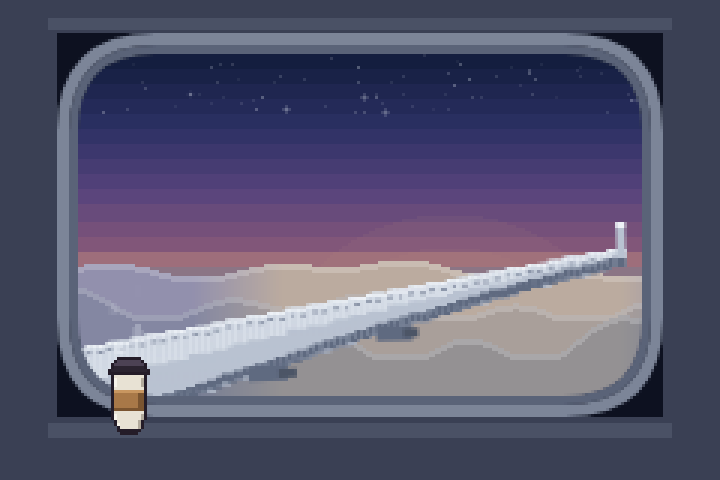
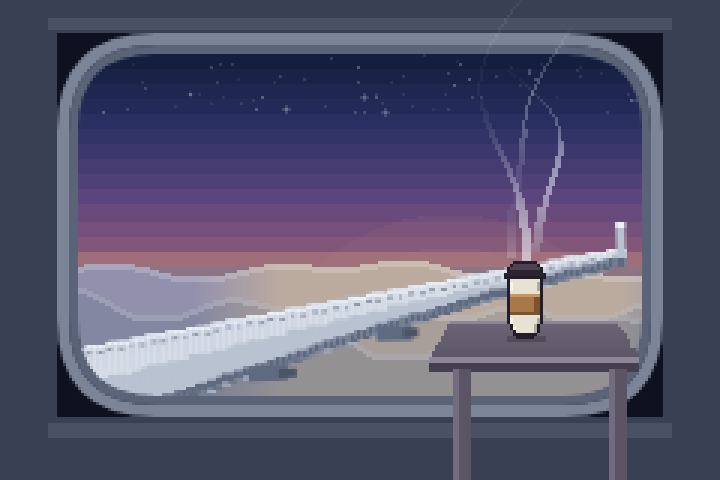
Put the coffee on a tray table in the foreground, per the sketch
- The cups sat in a row on the window ledge at the bottom left. They are now
  one cup on a pulled-down tray table in the lower right, drawn in screen
  space over the window frame because it is inside the cabin with you.
- The tray is drawn row by row so it tapers with perspective, and hangs on
  two arms that run off the bottom of the frame.
- Steam is rebuilt as ribbons rather than dots: each is a chain of pixels
  whose x follows two sines of different rates, both widening as it rises, so
  it wanders up across the whole window instead of oscillating on the spot.
  Dense and two pixels wide at the cup, wispy by the top.
- The attendant is no longer drawn leaning into the frame. She was cramped
  against the window edge and crowding the composition; the dimmed window and
  the dialogue carry her being there, the way every other conversation in the
  game works.

diff --git a/dist/rhubarb.html b/dist/rhubarb.html
@@ -1984,24 +1984,69 @@
 
   // A cup at rest with steam curling off it. Three wisps on different
   // phases, drifting up and sideways and fading as they rise.
-  // x,y is where the cup STANDS — its base — so callers position it on the
-  // ledge rather than guessing at a top-left corner.
-  RB.sillCup = function (x, y, t) {
-    var h = RB.sprites.bigcup.length;
-    RB.drawSprite(RB.sprites.bigcup, x, y - h, RB.cupPal);
-    // Steam scaled to match: taller, wider, slower.
-    for (var i = 0; i < 4; i++) {
-      var k = ((t * 0.34 + i * 0.25) % 1);
-      var sy = y - h - 2 - k * 26;
-      var sx = x + 5 + Math.sin(t * 1.2 + i * 1.9 + k * 3.4) * 4.5;
-      var fade = (1 - k) * (1 - k);
-      RB.ctx.globalAlpha = fade * 0.70;
-      RB.rect(sx, sy, 2, 4, P.white);
-      RB.ctx.globalAlpha = fade * 0.40;
-      RB.rect(sx - 1, sy + 1, 1, 3, P.white);
-      RB.rect(sx + 2, sy + 2, 1, 2, P.white);
-      RB.ctx.globalAlpha = 1;
+  // A tray table pulled down in the foreground with a coffee on it, and the
+  // steam curling up across the whole window. Drawn in screen space, over the
+  // window frame, because it is inside the cabin with you.
+  //
+  // Ribbons rather than dots: each one is a chain of pixels whose x follows a
+  // sine that widens as it rises, which is what makes steam read as steam.
+  function steamRibbon(baseX, baseY, t, phase, height) {
+    for (var i = 0; i < height; i++) {
+      var f = i / height;
+      // Two sines of different rates, both widening as the ribbon rises, so
+      // it wanders instead of oscillating on a fixed period.
+      var swing = 2.0 + f * 15;
+      var x = baseX
+            + Math.sin(f * 3.1 + t * 0.75 + phase) * swing
+            + Math.sin(f * 6.7 + t * 0.42 + phase * 1.7) * (swing * 0.35);
+      var a = (1 - f * f) * 0.62 * (0.55 + 0.45 * Math.sin(t * 1.5 + phase + f * 5.0));
+      if (a <= 0.02) continue;
+      RB.ctx.globalAlpha = a;
+      RB.rect(Math.round(x), baseY - i, 1, 1, P.white);
+      // Thicker low down where the steam is dense, wispy at the top.
+      if (f < 0.55) RB.rect(Math.round(x) + 1, baseY - i, 1, 1, P.white);
+      if (f < 0.22) RB.rect(Math.round(x) - 1, baseY - i, 1, 1, P.white);
     }
+    RB.ctx.globalAlpha = 1;
+  }
+
+  RB.trayCoffee = function (t, warm) {
+    var TOPY = 107, FRONTY = 119;
+    var bx0 = 150, bx1 = 206;          // back edge, further away, narrower
+    var fx0 = 143, fx1 = 213;          // front edge, nearer, wider
+    var surf = RB.mix('#6b6474', '#f4d08a', warm * 0.18);
+    var lip = RB.mix('#8d8698', '#f4d08a', warm * 0.22);
+    var dark = RB.mix('#443f4e', '#f4d08a', warm * 0.10);
+
+    // Surface, drawn row by row so it tapers with perspective.
+    for (var y = TOPY; y <= FRONTY; y++) {
+      var k = (y - TOPY) / (FRONTY - TOPY);
+      var l = bx0 + (fx0 - bx0) * k;
+      var r = bx1 + (fx1 - bx1) * k;
+      RB.rect(l, y, r - l, 1, RB.mix(surf, dark, k * 0.38));
+    }
+    RB.rect(bx0, TOPY, bx1 - bx0, 1, lip);
+    RB.rect(fx0, FRONTY, fx1 - fx0, 2, lip);
+    RB.rect(fx0, FRONTY + 2, fx1 - fx0, 3, dark);
+
+    // The two arms it hangs on, running off the bottom of the frame.
+    [151, 203].forEach(function (ax) {
+      RB.rect(ax, FRONTY + 4, 6, RB.H - FRONTY, RB.mix('#5a5464', '#f4d08a', warm * 0.12));
+      RB.rect(ax, FRONTY + 4, 2, RB.H - FRONTY, RB.mix('#736c80', '#f4d08a', warm * 0.14));
+    });
+
+    // The cup, standing on it.
+    var h = RB.sprites.bigcup.length;
+    var cupX = 168, cupBase = 113;
+    RB.ctx.globalAlpha = 0.22;
+    RB.rect(cupX + 1, cupBase - 1, 13, 2, '#0b0d14');
+    RB.ctx.globalAlpha = 1;
+    RB.drawSprite(RB.sprites.bigcup, cupX + RB.cam.x, cupBase - h, RB.cupPal);
+
+    // Steam, all the way up the glass.
+    steamRibbon(cupX + 4, cupBase - h - 2, t, 0.0, 78);
+    steamRibbon(cupX + 9, cupBase - h - 4, t, 2.1, 66);
+    steamRibbon(cupX + 6, cupBase - h - 1, t, 4.3, 92);
   };
 
   RB.now = 0;
@@ -3532,11 +3577,7 @@
       drawWindowFrame(wx, wy, ww, wh);
       drawCabinSurround(wx, wy, ww, wh);
 
-      // Anything you carried aboard sits on the ledge, steaming.
-      var cups = RB.state.cupsHeld || 0;
-      for (var c = 0; c < cups; c++) {
-        RB.sillCup(wx + 10 + c * 21, wy + wh + 13, s.t + c * 1.7);
-      }
+      if ((RB.state.cupsHeld || 0) > 0) RB.trayCoffee(s.t, 0);
     };
 
     function drawOutside(wx, wy, ww, wh) {
@@ -3960,21 +4001,10 @@
 
       // Whatever you are holding sits on the ledge, and visibly goes away
       // when she collects it.
-      var cups = RB.state.cupsHeld || 0;
-      for (var c = 0; c < cups; c++) {
-        RB.sillCup(wx + 10 + c * 21, wy + wh + 13, s.t + c * 1.7);
-      }
-
-      // The attendant, leaning into your view from the aisle. Drawn after the
-      // frame so she overlaps its edge rather than sitting behind it.
-      if (att.x > -20) {
-        RB.drawSprite(RB.sprites.side[0], att.x, 74, RB.cast.crew, false,
-                      sunC, 0.14 * k.t);
-        if (att.tray) {
-          RB.rect(att.x + 13, 84, 12, 2, '#8a8f9c');
-          RB.drawSprite(RB.sprites.cup, att.x + 15, 76, RB.cast.you);
-        }
-      }
+      // Your coffee on the tray table. The attendant is not drawn in frame —
+      // she is beside you in the aisle, which the dimmed window and the
+      // dialogue carry without crowding the composition.
+      if ((RB.state.cupsHeld || 0) > 0) RB.trayCoffee(s.t, k.t);
 
       if (endFade.v > 0.001) {
         RB.ctx.globalAlpha = RB.clamp(endFade.v, 0, 1);

diff --git a/src/world.js b/src/world.js
@@ -625,24 +625,69 @@
 
   // A cup at rest with steam curling off it. Three wisps on different
   // phases, drifting up and sideways and fading as they rise.
-  // x,y is where the cup STANDS — its base — so callers position it on the
-  // ledge rather than guessing at a top-left corner.
-  RB.sillCup = function (x, y, t) {
-    var h = RB.sprites.bigcup.length;
-    RB.drawSprite(RB.sprites.bigcup, x, y - h, RB.cupPal);
-    // Steam scaled to match: taller, wider, slower.
-    for (var i = 0; i < 4; i++) {
-      var k = ((t * 0.34 + i * 0.25) % 1);
-      var sy = y - h - 2 - k * 26;
-      var sx = x + 5 + Math.sin(t * 1.2 + i * 1.9 + k * 3.4) * 4.5;
-      var fade = (1 - k) * (1 - k);
-      RB.ctx.globalAlpha = fade * 0.70;
-      RB.rect(sx, sy, 2, 4, P.white);
-      RB.ctx.globalAlpha = fade * 0.40;
-      RB.rect(sx - 1, sy + 1, 1, 3, P.white);
-      RB.rect(sx + 2, sy + 2, 1, 2, P.white);
-      RB.ctx.globalAlpha = 1;
+  // A tray table pulled down in the foreground with a coffee on it, and the
+  // steam curling up across the whole window. Drawn in screen space, over the
+  // window frame, because it is inside the cabin with you.
+  //
+  // Ribbons rather than dots: each one is a chain of pixels whose x follows a
+  // sine that widens as it rises, which is what makes steam read as steam.
+  function steamRibbon(baseX, baseY, t, phase, height) {
+    for (var i = 0; i < height; i++) {
+      var f = i / height;
+      // Two sines of different rates, both widening as the ribbon rises, so
+      // it wanders instead of oscillating on a fixed period.
+      var swing = 2.0 + f * 15;
+      var x = baseX
+            + Math.sin(f * 3.1 + t * 0.75 + phase) * swing
+            + Math.sin(f * 6.7 + t * 0.42 + phase * 1.7) * (swing * 0.35);
+      var a = (1 - f * f) * 0.62 * (0.55 + 0.45 * Math.sin(t * 1.5 + phase + f * 5.0));
+      if (a <= 0.02) continue;
+      RB.ctx.globalAlpha = a;
+      RB.rect(Math.round(x), baseY - i, 1, 1, P.white);
+      // Thicker low down where the steam is dense, wispy at the top.
+      if (f < 0.55) RB.rect(Math.round(x) + 1, baseY - i, 1, 1, P.white);
+      if (f < 0.22) RB.rect(Math.round(x) - 1, baseY - i, 1, 1, P.white);
     }
+    RB.ctx.globalAlpha = 1;
+  }
+
+  RB.trayCoffee = function (t, warm) {
+    var TOPY = 107, FRONTY = 119;
+    var bx0 = 150, bx1 = 206;          // back edge, further away, narrower
+    var fx0 = 143, fx1 = 213;          // front edge, nearer, wider
+    var surf = RB.mix('#6b6474', '#f4d08a', warm * 0.18);
+    var lip = RB.mix('#8d8698', '#f4d08a', warm * 0.22);
+    var dark = RB.mix('#443f4e', '#f4d08a', warm * 0.10);
+
+    // Surface, drawn row by row so it tapers with perspective.
+    for (var y = TOPY; y <= FRONTY; y++) {
+      var k = (y - TOPY) / (FRONTY - TOPY);
+      var l = bx0 + (fx0 - bx0) * k;
+      var r = bx1 + (fx1 - bx1) * k;
+      RB.rect(l, y, r - l, 1, RB.mix(surf, dark, k * 0.38));
+    }
+    RB.rect(bx0, TOPY, bx1 - bx0, 1, lip);
+    RB.rect(fx0, FRONTY, fx1 - fx0, 2, lip);
+    RB.rect(fx0, FRONTY + 2, fx1 - fx0, 3, dark);
+
+    // The two arms it hangs on, running off the bottom of the frame.
+    [151, 203].forEach(function (ax) {
+      RB.rect(ax, FRONTY + 4, 6, RB.H - FRONTY, RB.mix('#5a5464', '#f4d08a', warm * 0.12));
+      RB.rect(ax, FRONTY + 4, 2, RB.H - FRONTY, RB.mix('#736c80', '#f4d08a', warm * 0.14));
+    });
+
+    // The cup, standing on it.
+    var h = RB.sprites.bigcup.length;
+    var cupX = 168, cupBase = 113;
+    RB.ctx.globalAlpha = 0.22;
+    RB.rect(cupX + 1, cupBase - 1, 13, 2, '#0b0d14');
+    RB.ctx.globalAlpha = 1;
+    RB.drawSprite(RB.sprites.bigcup, cupX + RB.cam.x, cupBase - h, RB.cupPal);
+
+    // Steam, all the way up the glass.
+    steamRibbon(cupX + 4, cupBase - h - 2, t, 0.0, 78);
+    steamRibbon(cupX + 9, cupBase - h - 4, t, 2.1, 66);
+    steamRibbon(cupX + 6, cupBase - h - 1, t, 4.3, 92);
   };
 
   RB.now = 0;

diff --git a/src/scenes_flight.js b/src/scenes_flight.js
@@ -335,11 +335,7 @@
       drawWindowFrame(wx, wy, ww, wh);
       drawCabinSurround(wx, wy, ww, wh);
 
-      // Anything you carried aboard sits on the ledge, steaming.
-      var cups = RB.state.cupsHeld || 0;
-      for (var c = 0; c < cups; c++) {
-        RB.sillCup(wx + 10 + c * 21, wy + wh + 13, s.t + c * 1.7);
-      }
+      if ((RB.state.cupsHeld || 0) > 0) RB.trayCoffee(s.t, 0);
     };
 
     function drawOutside(wx, wy, ww, wh) {
@@ -763,21 +759,10 @@
 
       // Whatever you are holding sits on the ledge, and visibly goes away
       // when she collects it.
-      var cups = RB.state.cupsHeld || 0;
-      for (var c = 0; c < cups; c++) {
-        RB.sillCup(wx + 10 + c * 21, wy + wh + 13, s.t + c * 1.7);
-      }
-
-      // The attendant, leaning into your view from the aisle. Drawn after the
-      // frame so she overlaps its edge rather than sitting behind it.
-      if (att.x > -20) {
-        RB.drawSprite(RB.sprites.side[0], att.x, 74, RB.cast.crew, false,
-                      sunC, 0.14 * k.t);
-        if (att.tray) {
-          RB.rect(att.x + 13, 84, 12, 2, '#8a8f9c');
-          RB.drawSprite(RB.sprites.cup, att.x + 15, 76, RB.cast.you);
-        }
-      }
+      // Your coffee on the tray table. The attendant is not drawn in frame —
+      // she is beside you in the aisle, which the dimmed window and the
+      // dialogue carry without crowding the composition.
+      if ((RB.state.cupsHeld || 0) > 0) RB.trayCoffee(s.t, k.t);
 
       if (endFade.v > 0.001) {
         RB.ctx.globalAlpha = RB.clamp(endFade.v, 0, 1);

diff --git a/README.md b/README.md
@@ -33,8 +33,8 @@ passport at a time, and you go last.
 
 A quarter of the way into the cruise the attendant offers you one. Say yes and
 she brings it at the halfway mark; three-quarters through she comes back for
-the empties. Whatever you are holding sits on the window ledge, so the cups
-visibly accumulate and visibly go away.
+the empties. Your coffee sits on the tray table in the foreground with the steam curling
+up across the glass, and it visibly goes away when she collects it.
 
 One playthrough is roughly 8–12 minutes.
 
